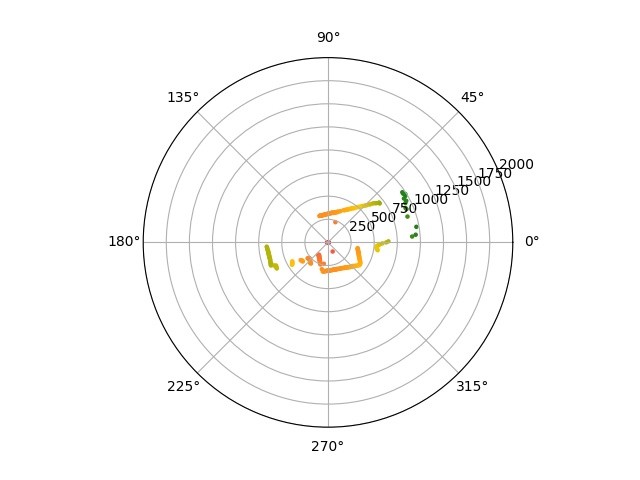
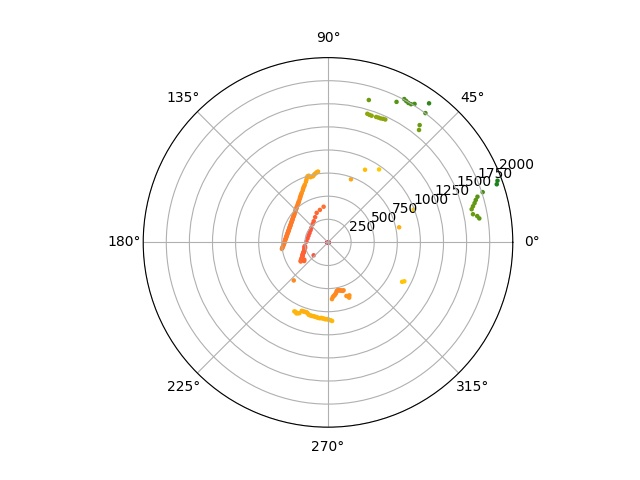
correction bug evitement obstacles

diff --git a/code/Flask/flask_server/templates/home.html b/code/Flask/flask_server/templates/home.html
@@ -1,7 +1,7 @@
 {% extends "base.html" %}
 {% block content %}
 <div class="container">
-    <h1>Bonjour à vous !</h1>
+    <h1>Bienvenue sur le site permettant de contrôler le Technic Hub et les divers modules installés</h1>
     <a class="btn btn-success" href="{{ url_for('create_car') }}">Se connecter à la voiture</a>
 </div>
 {% endblock %}

diff --git a/code/Flask/flask_server/templates/ui.html b/code/Flask/flask_server/templates/ui.html
@@ -97,7 +97,7 @@
     </form>
 </div>
 
-<script type=text/javascript>
+<script type="text/javascript">
 const STATE_ON = 1;
 const STATE_OFF = 0;
 

diff --git a/code/Flask/flask_server/server.py b/code/Flask/flask_server/server.py
@@ -172,14 +172,9 @@ def automatic_mode():
         obstacles_distances_front_right = []
         for i in range(len(rows)):
             distance = rows[i]
-            actions = get_actions_for_car(0)
+            actions = get_actions_for_car()
             if car != None:
-                if actions[1] == constants.CODE_MOVE_BACKWARD:
-                    print("reculer")
-                    car.auto_move(constants.MAX_SPEED_FROM_BORDER)
-                elif actions[1] == constants.CODE_MOVE_FORWARD:
-                    print("avancer")
-                    car.auto_move(constants.MAX_SPEED_FROM_BORDER * (-1))
+
                 if (
                     i < constants.MAX_ANGLE_OBSTACLE_DETECTION
                     or i > constants.FULL_ANGLE - constants.MAX_ANGLE_OBSTACLE_DETECTION
@@ -216,28 +211,28 @@ def automatic_mode():
                         car.auto_move(speed * (-1))
                 else:
                     car.stop_moving()
+                    car.reset_handlebar()
 
-                average_left = 0
+                lowest_dist_left = constants.FRONT_DISTANCE_OBSTACLE_DETECTION
                 for i in range(len(obstacles_distances_front_left)):
-                    average_left += obstacles_distances_front_left[i]
-                if average_left != 0:
-                    average_left /= len(obstacles_distances_front_left)
+                    if lowest_dist_left > obstacles_distances_front_left[i]:
+                        lowest_dist_left = obstacles_distances_front_left[i]
 
-                average_right = 0
+                lowest_dist_right = constants.FRONT_DISTANCE_OBSTACLE_DETECTION
                 for i in range(len(obstacles_distances_front_right)):
-                    average_right += obstacles_distances_front_right[i]
-                if average_right != 0:
-                    average_right /= len(obstacles_distances_front_right)
-                print(average_left)
-                print("--------------")
-                print(average_right)
-                if average_left != 0 and average_right != 0:
-                    if average_left < average_right:
-                        angle = average_left / average_right * -1
-                        car.turn(angle)
+                    if lowest_dist_right > obstacles_distances_front_right[i]:
+                        lowest_dist_right = obstacles_distances_front_right[i]
+
+                if (
+                    lowest_dist_right != constants.FRONT_DISTANCE_OBSTACLE_DETECTION
+                    and lowest_dist_left != constants.FRONT_DISTANCE_OBSTACLE_DETECTION
+                ):
+                    if lowest_dist_left < lowest_dist_right:
+                        car.turn(car.MIN_ANGLE)
+                    elif lowest_dist_left > lowest_dist_right:
+                        car.turn(car.MAX_ANGLE)
                     else:
-                        angle = average_right / average_left
-                        car.turn(angle)
+                        car.reset_handlebar()
 
 
 def lidar_stream(state=None):
@@ -333,8 +328,8 @@ def close_connection():
     output = "Connexion toujours en cours"
     if car != None:
         print("deco")
-        car.disconnect()
         output = "Connexion fermée avec l'appareil {0}".format(car.MY_MOVEHUB_ADD)
+        car.disconnect()
         car = None
 
     return render_template("connection.html", msg=output)
@@ -372,7 +367,7 @@ def bg_process_car():
     )
 
 
-def get_actions_for_car(speed):
+def get_actions_for_car():
     actions = (constants.CODE_TURN_NOTHING, constants.CODE_MOVE_NOTHING)
     # INDEX 0 represent the turn code
     # INDEX 1 represent the move code

diff --git a/code/Flask/flask_server/car.py b/code/Flask/flask_server/car.py
@@ -16,7 +16,6 @@ class CarController:
     MIN_ANGLE = -1
     MAX_ANGLE = 1
     DEFAULT_ANGLE = 0
-    MAX_MOTOR_POWER = 1
     MOTOR_STOP_POWER = 0
     MAXIMUM_SPEED_WHEN_GROUND_ISNT_DETECTED = 0.2
 
@@ -98,7 +97,7 @@ class CarController:
 
         angle : The angle we wants the directionnal motor goes to
         """
-        print("from " + str(self.old_angle))
+        # print("from " + str(self.old_angle))
 
         # Reset the angle
         # if angle < self.old_angle:
@@ -110,29 +109,35 @@ class CarController:
         # elif angle < self.MIN_ANGLE:
         #     angle = self.MIN_ANGLE
         # print("computed " + str(angle))
+        try:
+            self.directionnal_motor.start_power(angle)
+            # print("to " + str(angle))
 
-        self.directionnal_motor.start_power(angle)
-        print("to " + str(angle))
-
-        self.old_angle = angle
+            self.old_angle = angle
+        except AssertionError:
+            pass
 
     def reset_handlebar(self):
         # Reset the angle
         angle = self.old_angle * -1
-        print("from " + str(self.old_angle))
+        # print("from " + str(self.old_angle))
         angle /= 2
-        print("to " + str(angle))
-
-        self.directionnal_motor.start_power(angle)
-        self.old_angle = angle
-        # self.directionnal_motor.start_power(self.MAX_ANGLE)
+        # print("to " + str(angle))
+        try:
+            self.directionnal_motor.start_power(angle)
+            self.old_angle = angle
+        except AssertionError:
+            pass
 
     def stop_moving(self):
         """Stop the motors"""
         # Reset the angle
         self.reset_handlebar()
-        self.front_motor.start_power(self.MOTOR_STOP_POWER)
-        self.back_motor.start_power(self.MOTOR_STOP_POWER)
-
+        try:
+            self.front_motor.start_power(self.MOTOR_STOP_POWER)
+            self.back_motor.start_power(self.MOTOR_STOP_POWER)
+        except AssertionError:
+            pass
+        
     def disconnect(self):
         self.connection.disconnect()
